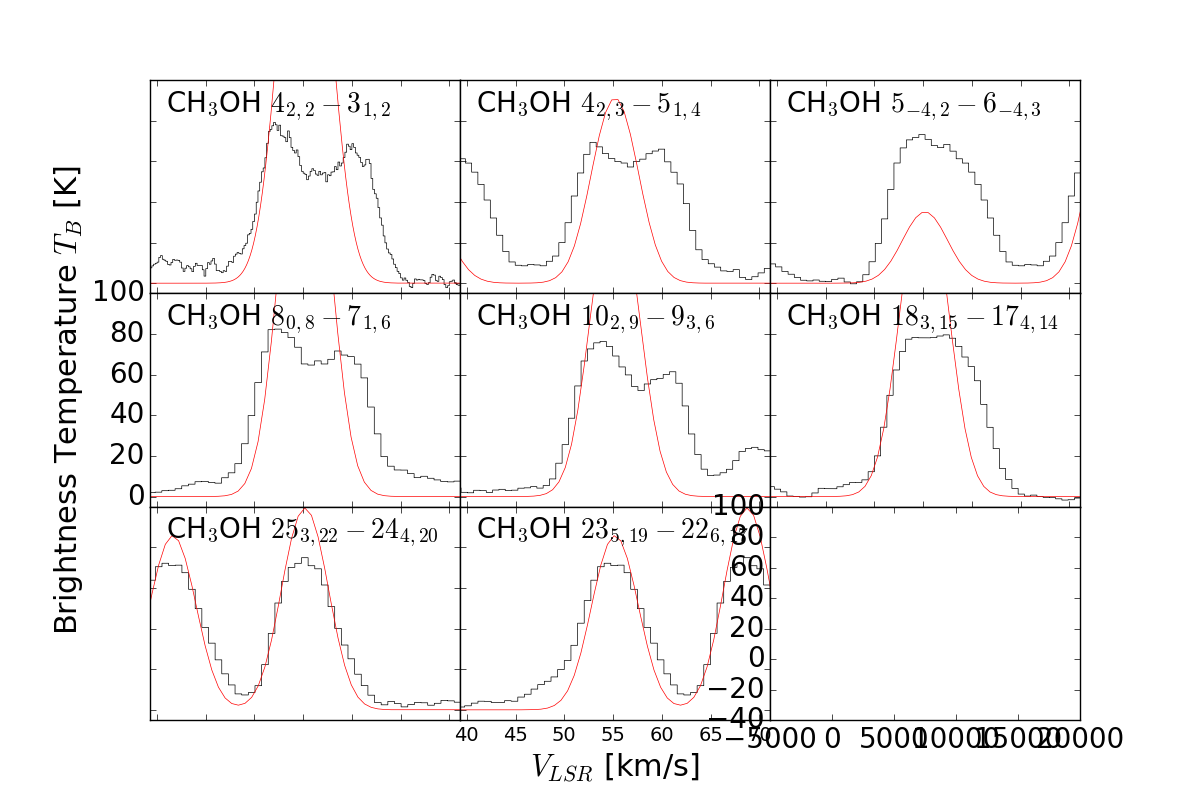
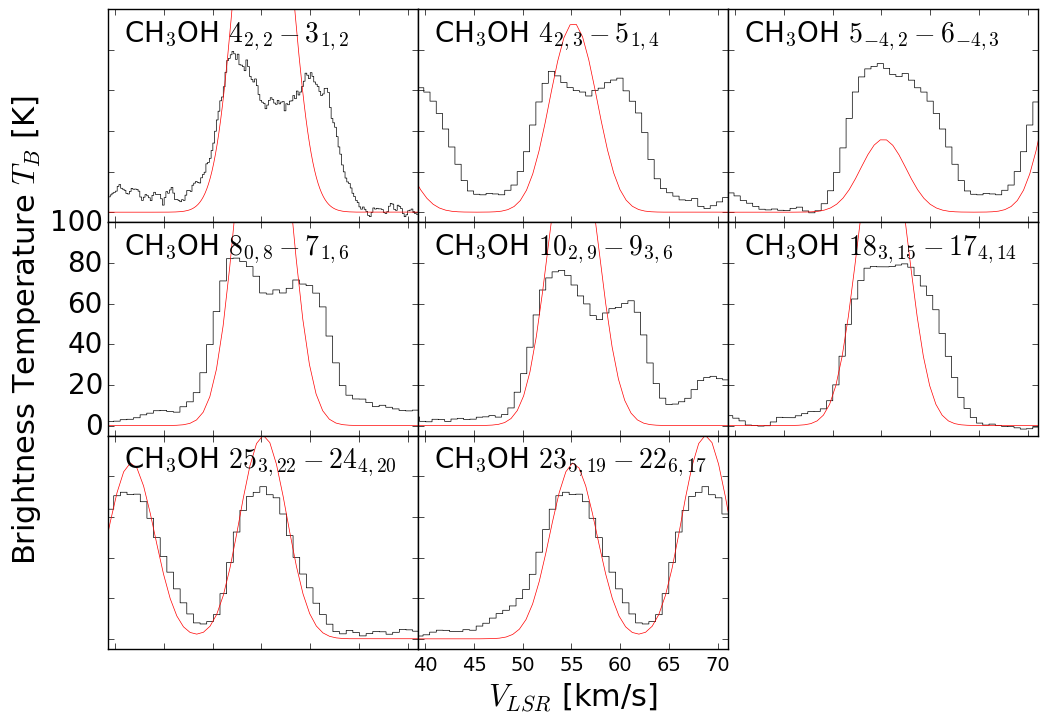
update ch3oh figures and restructure text around them

diff --git a/cores_and_outflows/cores_and_outflows.tex b/cores_and_outflows/cores_and_outflows.tex
@@ -727,7 +727,12 @@ most of the lines shown in Figure \ref{fig:chemmapse2}.  These enhancements
 could occur from increased total column density, increased abundance of the
 molecules, or increased excitation.
 
-In Section \ref{sec:ch3ohtem}, we determine that the \methanol abundance
+In Section \ref{sec:ch3ohtem}, we examine the \methanol abundance
+and excitation conditions. 
+The detection of highly excited \methanol lines, including
+$18_{3,15}-17_{4,14}$ ($E_U=447$ K) and $25_{3,22}-24_{4,20}$ ($E_U=802$ K),
+suggests that the excitation is part of the explanation for the brighter
+molecular emission.  However, LTE modeling reveals that the \methanol abundance
 increases by a factor of $\sim5-10$ from the protocluster gas inward toward the
 e2e core.  This abundance gradient is likely present in other molecules as
 well.  Given the enhanced abundance of \methanol, these sharp-edged bubbles
@@ -740,11 +745,11 @@ the sublimation temperature for each species.
 \subsection{\methanol temperatures \& columns in the hot cores}
 \label{sec:ch3ohtem}
 The extreme chemical regions appear to be associated with regions of
-dramatically elevated gas temperature.  We examine this directly by analyzing
+elevated gas temperature.  We examine this directly by analyzing
 the excitation of lines for which we have detected multiple transitions with
 significant energy differences.  We do not use \formaldehyde for this analysis
-because it is clearly optically thick (self-absorbed) in the regions of
-greatest interest.
+because it is clearly optically thick (self-absorbed) in all lines in the
+regions of greatest interest.
 
 We produce rotational diagrams for each spatial pixel covering all \methanol lines
 detected at high significance toward at least one position.  The detected lines
@@ -762,7 +767,7 @@ the cores appear to have lower column densities because the lines become
 optically thick and self-absorbed.}
 {fig:ch3ohe2}{1}{10cm}
 
-The rotational diagrams are displayed in Figure \ref{fig:ch3ohe2rot}.
+Sample fitted rotational diagrams are displayed in Figure \ref{fig:ch3ohe2rot}.
 The line intensities are computed from moment maps integrating over the range
 (51, 60) \kms in continuum-subtracted spectral cubes, where the continuum
 was estimated as the median over the ranges (25-35,85-95) \kms, except
@@ -788,16 +793,22 @@ that can be seen as a dip within the line profile (Figure
 \ref{fig:ch3ohe2epeaks}).
 
 
-\Figure{figures/ch3oh_rotdiagram_fits_SelectedPixel1.png}
+\FigureTwo
+{figures/ch3oh_rotdiagram_fits_SelectedPixel1.png}
+{figures/ch3oh_rotdiagram_fits_SelectedPixel2.png}
 {Spectra of the \methanol lines toward a selected pixel just outside of the e2e
 core.  The red curves show the LTE model fitted from a rotational diagram as
 shown in Figure \ref{fig:ch3ohe2rot}.  The model is not a fit to the data
-shown, but is instead a single-component LTE mode fit to the integrated
+shown, but is instead a single-component LTE model fit to the integrated
 intensity of the lines shown.  As such, the fit is not convincing, and it is
 evident that a single-temperature, single-velocity model does not explain the
 observed lines.  Nonetheless, a component with the modeled temperature is
-likely to be present.}
-{fig:ch3ohe2epeaks}{1}{18cm}
+likely to be present in addition to a cooler component responsible for the
+self-absorption in the low-J lines.  (a) shows a pixel close to the center of
+e2e, which is probably optically thick in most of the shown transitions, while
+(b) shows a better case where the highest-$A_{ij}$ lines are overpredicted but
+many of the others are well-fit.}
+{fig:ch3ohe2epeaks}{1}{8cm}
 
 Figure \ref{fig:ch3ohvscont} shows a comparison between the \methanol
 $10_{2,9}-9_{3,6}$ line and the 225 GHz continuum.  While the brightest regions
@@ -816,23 +827,18 @@ of the \methanol map correspond to the bright continuum cores and show where all
 appear to be self-absorbed.}
 {fig:ch3ohvscont}{1}{8cm}
 
-The detection of highly excited \methanol lines, including
-$18_{3,15}-17_{4,14}$ ($E_U=447$ K) and $25_{3,22}-24_{4,20}$ ($E_U=802$ K),
-suggests that the excitation is at least part of the explanation.  However,
-abundance also plays a large role.  Figure \ref{fig:ch3ohtemX} shows a
-comparison of the \methanol temperature and abundance.
-The \methanol abundance
-is derived by comparing the rotational diagram (RTD) fitted \methanol column density to
-the dust column density while using the \methanol-derived temperature as the
-assumed dust temperature.  The figure shows all pixels within a 3\arcsec (16200
-AU) radius of e2e, with pixels having low column density and high temperature
-(i.e., pixels with bad fits) and those near e2w (which may be heated
-by a different source) excluded.
-We used moment-0 (integrated intensity) maps of the \methanol lines to perform
-these RTD fits, which means we have ignored the line profile entirely and in some
-cases underestimated the intensity of the optically thick lower-J lines: in
-the regions of highest column, the column is  underestimated and the temperature
-is overestimated.
+Figure \ref{fig:ch3ohtemX} shows a comparison of the \methanol temperature and
+abundance.  The \methanol abundance is derived by comparing the rotational
+diagram (RTD) fitted \methanol column density to the dust column density while
+using the \methanol-derived temperature as the assumed dust temperature.  The
+figure shows all pixels within a 3\arcsec (16200 AU) radius of e2e, with pixels
+having low column density and high temperature (i.e., pixels with bad fits) and
+those near e2w (which may be heated by a different source) excluded.  We used
+moment-0 (integrated intensity) maps of the \methanol lines to perform these
+RTD fits, which means we have ignored the line profile entirely and in some
+cases underestimated the intensity of the optically thick lower-J lines: in the
+regions of highest column, the column is  underestimated and the temperature is
+overestimated, as can be seen in Figure \ref{fig:ch3ohe2epeaks}.
 
 \FigureFour
 {figures/e2_CH3OH_LTE_temperature_vs_abundance.png}

diff --git a/analysis/ch3oh_model.py b/analysis/ch3oh_model.py
@@ -255,6 +255,7 @@ def show_modelfit(spectra, vel, width, tem, col, figsavename=None, fignum=1,
 def load_and_convert_spectra(globname):
     import glob
     import paths
+    from astropy import wcs
     import pyspeckit
     import radio_beam
     speclist = [pyspeckit.Spectrum(fn) for fn in
@@ -278,12 +279,15 @@ if __name__ == "__main__":
 
     import glob
     import pyspeckit
+    from astropy import wcs
+    from astropy import coordinates
+    import pyregion
     import paths
     import radio_beam
 
     target = 'e2e'
 
-    spectra = pyspeckit.Spectra(glob.glob(paths.spath("*{0}_spw*fits".format(target))))
+    spectra = pyspeckit.Spectra(glob.glob(paths.spath("*{0}_spw[0-9]_mean.fits".format(target))))
     beam = radio_beam.Beam.from_fits_header(spectra.header)
     # "baseline"
     spectra.data -= np.nanpercentile(spectra.data, 10)
@@ -307,16 +311,31 @@ if __name__ == "__main__":
                              line_xvals=freqs[ok],
                              velocity_offset=55.626*u.km/u.s)
 
+    pixel_regions = pyregion.open(paths.rpath('three_e2_pixels.reg'))
+    colmap = fits.open(paths.dpath('12m/moments/CH3OH_e2_cutout_columnmap.fits'))
+    temmap = fits.open(paths.dpath('12m/moments/CH3OH_e2_cutout_temperaturemap.fits'))
+    ch3ohwcs = wcs.WCS(colmap[0].header)
+
     target = 'SelectedPixel{0}'
     for selreg, tem, col, vel, width, ylim in (
-        (1, 401, 5.1e18, 55.2, 5.3, (-5,100)),
-        (2, 220, 1.3e18, 55.6, 5.3, (-5,100)),
-        (3, 167, 5.7e17, 53.0, 5.3, (-5,100)),
-        (4, 127, 1.7e17, 54.0, 5.3, (-5,60)),
+        (1, 9999401, 99995.1e18, 55.2, 5.3, (-5,100)),
+        (2, 9999220, 99991.3e18, 55.6, 5.3, (-5,100)),
+        (3, 9999167, 99995.7e17, 53.0, 5.3, (-5,100)),
+        (4, 9999127, 99991.7e17, 54.0, 5.3, (-5,60)),
        ):
 
+        # tem, col should be extractd from RTD fits
+        reg = [rr for rr in pixel_regions if int(rr.attr[1]['text'][-1]) == selreg][0]
+        coord = coordinates.SkyCoord(reg.coord_list[0], reg.coord_list[1],
+                                     frame='fk5', unit=(u.deg, u.deg))
+        xpix, ypix = ch3ohwcs.celestial.wcs_world2pix(coord.ra.deg,
+                                                      coord.dec.deg,
+                                                      0)
+        tem = temmap[0].data[int(ypix), int(xpix)]
+        col = colmap[0].data[int(ypix), int(xpix)]
+
         speclist = [pyspeckit.Spectrum(fn) for fn in
-                    glob.glob(paths.spath("*{0}_spw*fits".format(target.format(selreg))))]
+                    glob.glob(paths.spath("*{0}_spw[0-9]_mean.fits".format(target.format(selreg))))]
         for sp in speclist:
             sp.data -= np.nanpercentile(sp.data, 10)
         spectra = pyspeckit.Spectra(speclist)
